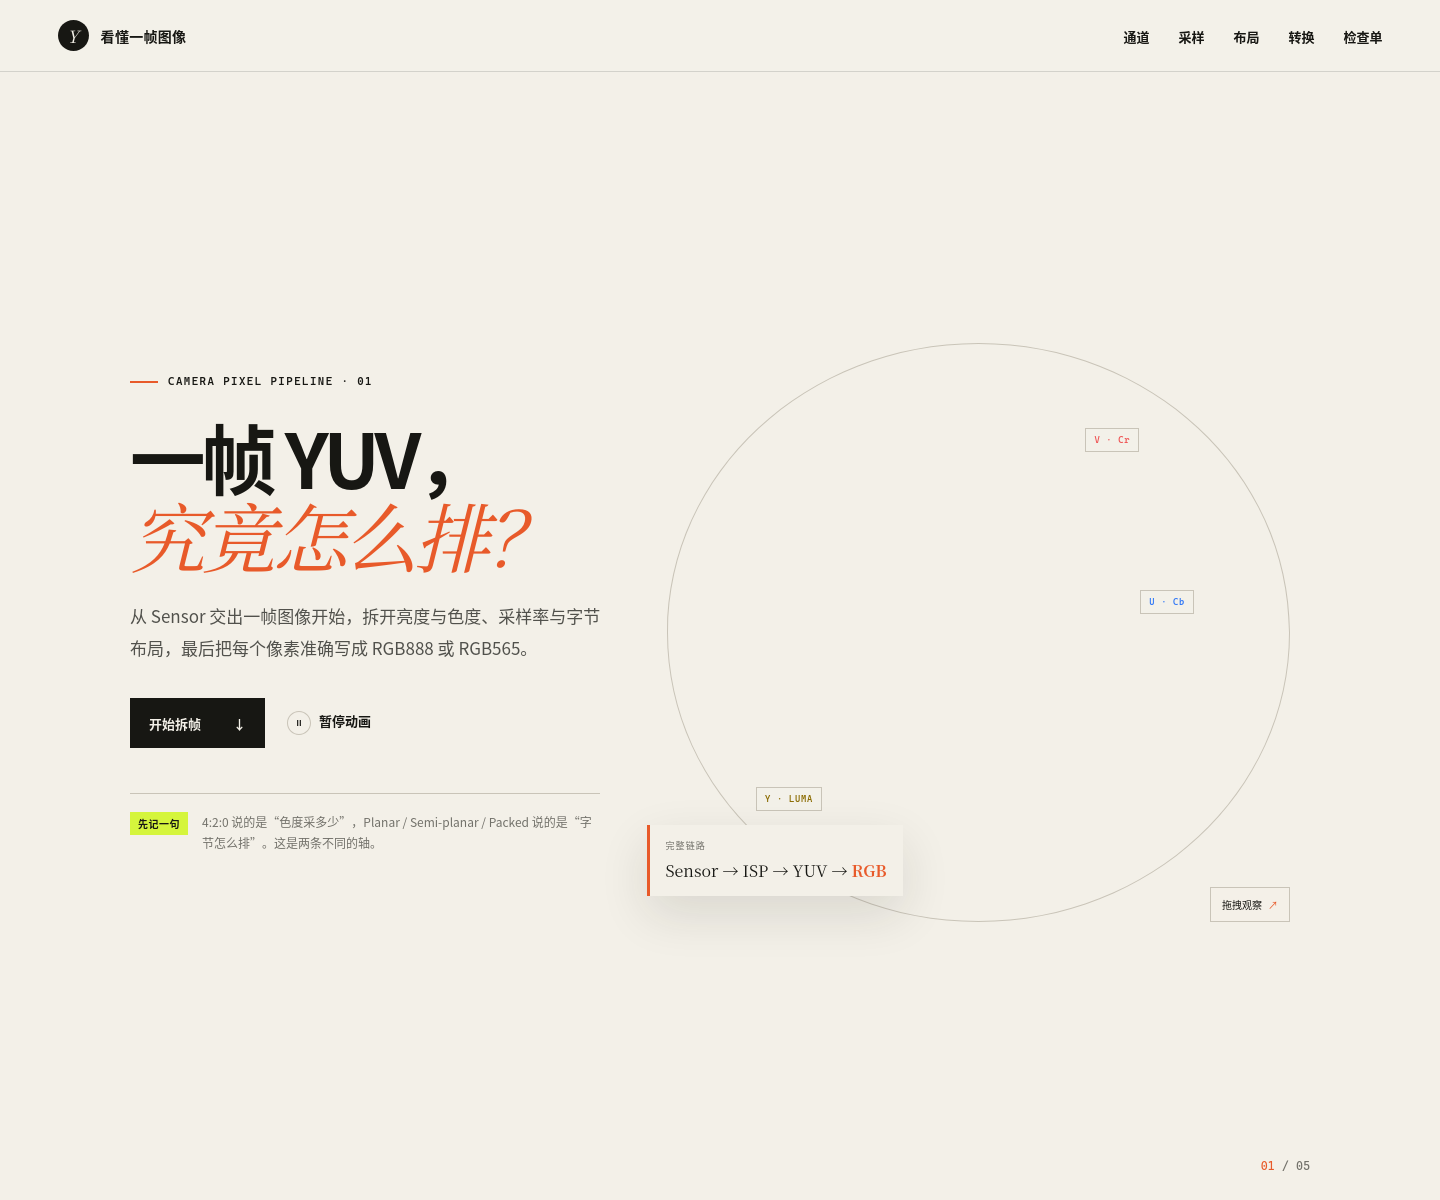
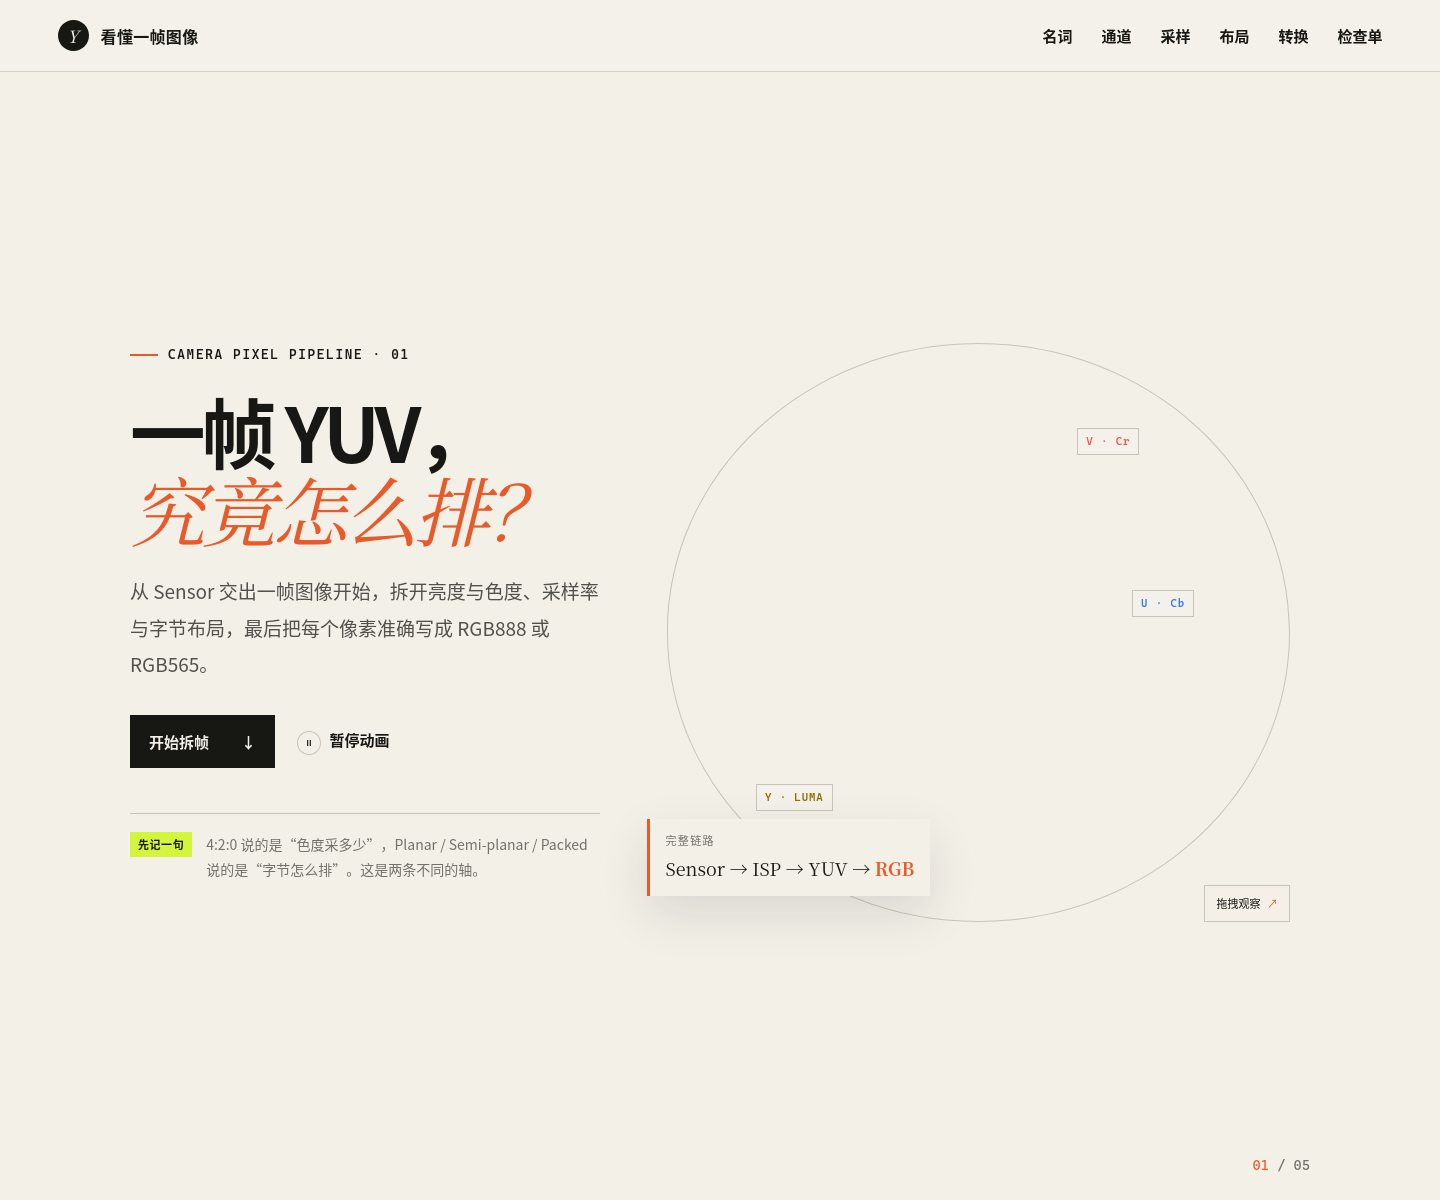
feat: add YUV glossary and improve typography

diff --git a/src/style.css b/src/style.css
@@ -93,6 +93,49 @@ h1 em, h2 em { color: var(--orange); font-family: var(--serif); font-weight: 400
 .concept-strip b { color: var(--paper); font-size: 13px; }
 .concept-strip i { color: #62625c; font-style: normal; }
 
+.glossary { padding: 118px 0 126px; }
+.glossary-heading { display: grid; grid-template-columns: 1.2fr .8fr; align-items: end; column-gap: 9%; margin-bottom: 54px; }
+.glossary-heading .eyebrow { grid-column: 1 / -1; margin-bottom: 22px; }
+.glossary-heading h2 { font-size: clamp(38px, 4.7vw, 60px); }
+.glossary-heading > p { margin: 0 0 5px; color: var(--muted); font-size: 17px; line-height: 1.9; }
+.term-grid { display: grid; grid-template-columns: repeat(3, 1fr); gap: 14px; }
+.term-card { min-width: 0; padding: 30px 28px; border: 1px solid var(--line); background: var(--paper-2); }
+.chroma-card { grid-column: 1 / -1; display: grid; grid-template-columns: 1.03fr .97fr; column-gap: 8%; }
+.chroma-card .term-top, .chroma-card h3 { grid-column: 1 / -1; }
+.term-top { display: flex; align-items: center; justify-content: space-between; padding-bottom: 17px; border-bottom: 1px solid var(--line); }
+.term-top span { color: var(--orange); font: 600 12px var(--mono); letter-spacing: .08em; }
+.term-top b { color: var(--muted); font: 500 12px var(--mono); }
+.term-card h3 { margin: 23px 0 14px; font-size: 27px; }
+.term-card h3 small { margin-left: 7px; color: var(--muted); font: 500 13px var(--mono); }
+.term-card > p { margin-bottom: 23px; color: var(--muted); font-size: 15px; line-height: 1.85; }
+.term-card > p strong { color: var(--ink); }
+.chroma-equation { display: grid; grid-template-columns: 1fr auto 1fr auto 1fr; align-items: stretch; gap: 9px; }
+.chroma-equation > div { padding: 18px 12px; display: flex; flex-direction: column; align-items: center; gap: 9px; border: 1px solid var(--line); background: var(--paper); text-align: center; }
+.chroma-equation > b { align-self: center; color: var(--orange); font: 400 22px var(--serif); }
+.chroma-equation i { width: 42px; height: 42px; display: grid; place-items: center; border-radius: 50%; color: var(--ink); background: var(--yellow); font: normal 700 13px var(--mono); }
+.chroma-equation .term-u { color: white; background: var(--blue); }
+.chroma-equation .term-v { color: white; background: var(--red); }
+.chroma-equation span { font-size: 13px; }
+.term-note { padding: 20px 22px; border-left: 3px solid var(--orange); background: var(--paper); }
+.chroma-card .term-note { grid-column: 1 / -1; }
+.term-note b { display: block; margin-bottom: 9px; font-size: 15px; }
+.term-note span { color: var(--muted); font-size: 14px; line-height: 1.8; }
+.mini-memory { margin: 25px 0 17px; display: grid; gap: 6px; }
+.mini-memory > div { min-width: 0; display: flex; }
+.mini-memory i { flex: 1 1 0; min-width: 0; height: 40px; display: grid; place-items: center; border-right: 1px solid rgba(23,23,19,.2); color: var(--ink); background: var(--yellow); font: normal 650 11px var(--mono); }
+.mini-memory i:last-child { border-right: 0; }
+.planar-memory > div:nth-child(2) i { color: white; background: var(--blue); }
+.planar-memory > div:nth-child(3) i { color: white; background: var(--red); }
+.semi-memory > div:nth-child(2) i:nth-child(odd) { color: white; background: var(--blue); }
+.semi-memory > div:nth-child(2) i:nth-child(even) { color: white; background: var(--red); }
+.packed-memory i:nth-child(2), .packed-memory i:nth-child(6) { color: white; background: var(--blue); }
+.packed-memory i:nth-child(4), .packed-memory i:nth-child(8) { color: white; background: var(--red); }
+.term-example { display: block; color: var(--muted); font: 500 11px/1.7 var(--mono); }
+.glossary-rule { margin-top: 22px; padding: 23px 27px; display: grid; grid-template-columns: 130px 1fr; align-items: center; gap: 22px; color: var(--paper); background: var(--ink); }
+.glossary-rule > span { color: var(--lime); font: 600 12px var(--mono); letter-spacing: .08em; }
+.glossary-rule p { margin: 0; color: #b7b6ae; font-size: 15px; line-height: 1.8; }
+.glossary-rule b { color: var(--paper); }
+
 .lesson { padding: 126px 0; }
 .section-heading { margin-bottom: 66px; }
 .heading-row { display: grid; grid-template-columns: 1.25fr .75fr; align-items: end; gap: 9%; margin-top: 22px; }
@@ -322,6 +365,69 @@ pre { margin: 0; padding: 30px 34px 37px; overflow-x: auto; color: #e4e1d8; font
 .back-top:hover { color: var(--paper); background: var(--orange); border-color: var(--orange); }
 footer { width: min(1180px, 92vw); margin: 0 auto; padding: 28px 0; display: flex; justify-content: space-between; color: var(--muted); font: 500 9px var(--mono); letter-spacing: .07em; }
 
+/* Readability pass: keep technical labels comfortably legible on dense diagrams. */
+.brand { font-size: 16px; }
+.nav { font-size: 15px; }
+.eyebrow { font-size: 13px; }
+.hero-lead { font-size: 19px; }
+.primary-btn, .text-btn { font-size: 15px; }
+.hero-note p { font-size: 14px; }
+.hero-note > span, .eq-label, .plane-label, .drag-hint { font-size: 11px; }
+.equation-float { font-size: 18px; }
+.chapter-index { font-size: 14px; }
+.concept-strip span { font-size: 13px; }
+.concept-strip p { font-size: 13px; }
+.concept-strip b { font-size: 15px; }
+.heading-row > p { font-size: 17px; }
+.canvas-title, .plane-head b, .pixel-readout p { font-size: 12px; }
+.plane-head small { font-size: 10px; }
+.step-tag { font-size: 11px; }
+.readout-row { font-size: 13px; }
+.readout-row b { font-size: 16px; }
+.formula-step > span, .formula-step p { font-size: 14px; }
+.big-math { font-size: 23px; }
+.sample-switch button { font-size: 13px; }
+.sampling-stat small, .legend { font-size: 11px; }
+.sampling-copy > p { font-size: 16px; }
+.sampling-layer-labels span, .sampling-cards span, .sampling-cards p { font-size: 11px; }
+.sampling-cards b { font-size: 16px; }
+.map-root span, .map-axis-title span, .format-class { font-size: 11px; }
+.map-root b { font-size: 17px; }
+.map-root small, .layout-branches span { font-size: 10px; }
+.map-axis-title b { font-size: 15px; }
+.map-nodes span { font-size: 13px; }
+.layout-branches b { font-size: 12px; }
+.format-tabs button { font-size: 13px; }
+.memory-topline, .memory-row > span { font-size: 10px; }
+.byte-cell { font-size: 13px; }
+.byte-cell small { font-size: 9px; }
+.address-line, .memory-legend { font-size: 10px; }
+.format-info > p { font-size: 15px; }
+.format-info dl > div { font-size: 12px; }
+.layout-summary span { font-size: 11px; }
+.layout-summary h3 { font-size: 18px; }
+.layout-summary p { font-size: 14px; }
+.lab-top, .control-switches label { font-size: 11px; }
+.control-switches select, .range-label { font-size: 13px; }
+.range-label output { font-size: 15px; }
+.matrix-note b { font-size: 12px; }
+.matrix-note code, .matrix-note p { font-size: 11px; }
+.rgb-numbers > div { font-size: 12px; }
+.output-compare article > span, .output-compare article > small { font-size: 10px; }
+.bit-row i { font-size: 9px; }
+.equation-path span, .equation-path p { font-size: 11px; }
+.equation-path b { font-size: 14px; }
+.code-top, .code-top button { font-size: 11px; }
+pre { font-size: 14px; }
+.code-notes ul, .check-grid p { font-size: 14px; }
+.check-grid span { font-size: 11px; }
+.check-grid h3 { font-size: 20px; }
+.check-grid b { font-size: 12px; }
+.debug-flow span { font-size: 10px; }
+.debug-flow b { font-size: 13px; }
+.closing p { font-size: 16px; }
+footer { font-size: 11px; }
+
 .reveal { opacity: 1; transform: translateY(0); transition: opacity .7s ease, transform .7s ease; }
 .reveal.visible { opacity: 1; transform: translateY(0); }
 
@@ -333,6 +439,10 @@ footer { width: min(1180px, 92vw); margin: 0 auto; padding: 28px 0; display: fle
   .concept-strip i { display: none; }
   .heading-row, .sampling-grid { grid-template-columns: 1fr; gap: 34px; }
   .heading-row > p { max-width: 650px; }
+  .glossary-heading { grid-template-columns: 1fr; gap: 24px; }
+  .glossary-heading .eyebrow { grid-column: 1; }
+  .chroma-card { grid-template-columns: 1fr; }
+  .chroma-equation { margin-bottom: 18px; }
   .channel-lab { grid-template-columns: 1.3fr .7fr; }
   .pixel-readout { grid-column: 1 / -1; display: grid; grid-template-columns: auto 90px repeat(3, 1fr); align-items: center; gap: 15px; padding: 22px; }
   .pixel-readout .sample-color { margin: 0; height: 55px; }
@@ -351,10 +461,19 @@ footer { width: min(1180px, 92vw); margin: 0 auto; padding: 28px 0; display: fle
   .brand span:last-child { display: none; }
   .hero { min-height: auto; padding-top: 104px; }
   .hero-visual { height: 430px; margin-top: 15px; }
-  .hero-lead { font-size: 15px; }
+  .hero-lead { font-size: 17px; }
   .hero-note, .chapter-index { display: none; }
   .lesson, .dark-section { padding: 90px 0; }
   .section-heading { margin-bottom: 44px; }
+  .glossary { padding: 82px 0 90px; }
+  .glossary-heading { margin-bottom: 36px; }
+  .term-grid { grid-template-columns: 1fr; }
+  .chroma-card { grid-column: 1; }
+  .term-card { padding: 25px 21px; }
+  .term-card h3 small { display: block; margin: 7px 0 0; }
+  .chroma-equation { grid-template-columns: 1fr; }
+  .chroma-equation > b { height: 18px; }
+  .glossary-rule { grid-template-columns: 1fr; gap: 9px; }
   .channel-lab { grid-template-columns: 1fr; min-height: auto; }
   .channel-main { min-height: 380px; border-right: 0; border-bottom: 1px solid var(--line); }
   .channel-planes { min-height: 420px; }
@@ -389,7 +508,7 @@ footer { width: min(1180px, 92vw); margin: 0 auto; padding: 28px 0; display: fle
   .equation-path > i { display: none; }
   .code-lab { grid-template-columns: 1fr; }
   .code-side { border-right: 0; border-bottom: 1px solid #42433b; }
-  pre { padding: 26px 20px; font-size: 10px; }
+  pre { padding: 26px 20px; font-size: 12px; }
   .check-grid { grid-template-columns: 1fr; }
   .check-grid article { min-height: 220px; }
   .debug-flow { grid-template-columns: 1fr; }

diff --git a/src/main.js b/src/main.js
@@ -11,6 +11,7 @@ app.innerHTML = `
       <span>看懂一帧图像</span>
     </a>
     <nav class="nav" aria-label="章节导航">
+      <a href="#glossary">名词</a>
       <a href="#channels">通道</a>
       <a href="#sampling">采样</a>
       <a href="#layouts">布局</a>
@@ -56,6 +57,68 @@ app.innerHTML = `
       <div><span>02</span><p><b>Chroma sampling</b><br>决定色度分辨率</p></div><i>→</i>
       <div><span>03</span><p><b>Memory layout</b><br>决定字节地址</p></div><i>→</i>
       <div><span>04</span><p><b>Matrix + pack</b><br>还原并压入 RGB</p></div>
+    </section>
+
+    <section class="glossary section-shell" id="glossary">
+      <div class="glossary-heading reveal">
+        <div class="eyebrow"><span></span> BEFORE WE START · GLOSSARY</div>
+        <h2>先读懂四个词，<br><em>再去看 bytes。</em></h2>
+        <p>Chroma 描述“存什么颜色信息”；Planar、Semi-planar 与 Packed 描述“这些信息在内存里怎么排”。</p>
+      </div>
+
+      <div class="term-grid reveal">
+        <article class="term-card chroma-card">
+          <div class="term-top"><span>00 · SIGNAL</span><b>颜色信息</b></div>
+          <h3>Chroma <small>/ˈkroʊmə/ · 色度</small></h3>
+          <p>在数字 YUV 中，Chroma 通常指 <strong>U/Cb 与 V/Cr 两路色差信号</strong>。它们告诉系统颜色相对亮度偏蓝多少、偏红多少，而明暗细节主要由 Y 保存。</p>
+          <div class="chroma-equation">
+            <div><i class="term-y">Y</i><span>亮度 / 细节</span></div>
+            <b>+</b>
+            <div><i class="term-u">Cb</i><span>蓝色色差</span></div>
+            <b>+</b>
+            <div><i class="term-v">Cr</i><span>红色色差</span></div>
+          </div>
+          <div class="term-note"><b>为什么能少采？</b><span>人眼对 Chroma 的空间细节不如对亮度敏感，所以 4:2:2、4:2:0 会让多个 Y 共享色度样本。8-bit 数据中，U/V≈128 通常表示中性色差。</span></div>
+        </article>
+
+        <article class="term-card">
+          <div class="term-top"><span>01 · LAYOUT</span><b>3 PLANES</b></div>
+          <h3>Planar <small>平面式</small></h3>
+          <p>Y、U、V 各占一块独立且连续的内存区域。处理某个通道很直接，但必须分别维护 plane 地址与 stride。</p>
+          <div class="mini-memory planar-memory" aria-label="Planar 内存示意">
+            <div><i>Y</i><i>Y</i><i>Y</i><i>Y</i></div>
+            <div><i>U</i><i>U</i></div>
+            <div><i>V</i><i>V</i></div>
+          </div>
+          <span class="term-example">I420: Y → U → V　·　YV12: Y → V → U</span>
+        </article>
+
+        <article class="term-card">
+          <div class="term-top"><span>02 · LAYOUT</span><b>2 PLANES</b></div>
+          <h3>Semi-planar <small>半平面式</small></h3>
+          <p>Y 保持独立；U 与 V 合并到第二个 plane，并按样本交错。<strong>“Semi” 指组织方式，不表示分辨率减半。</strong></p>
+          <div class="mini-memory semi-memory" aria-label="Semi-planar 内存示意">
+            <div><i>Y</i><i>Y</i><i>Y</i><i>Y</i></div>
+            <div><i>U</i><i>V</i><i>U</i><i>V</i></div>
+          </div>
+          <span class="term-example">NV12: UV UV…　·　NV21: VU VU…</span>
+        </article>
+
+        <article class="term-card">
+          <div class="term-top"><span>03 · LAYOUT</span><b>1 PLANE</b></div>
+          <h3>Packed <small>打包式</small></h3>
+          <p>Y、U、V 全部混排在同一条 byte stream 中，通常按两个像素为一组读取。不能把某一路当作连续数组。</p>
+          <div class="mini-memory packed-memory" aria-label="Packed 内存示意">
+            <div><i>Y0</i><i>U0</i><i>Y1</i><i>V0</i><i>Y2</i><i>U1</i><i>Y3</i><i>V1</i></div>
+          </div>
+          <span class="term-example">YUYV: Y0 U0 Y1 V0　·　UYVY: U0 Y0 V0 Y1</span>
+        </article>
+      </div>
+
+      <div class="glossary-rule reveal">
+        <span>不要混淆</span>
+        <p><b>4:2:0 / 4:2:2</b> 决定 Chroma 采样数量；<b>Planar / Semi-planar / Packed</b> 决定样本的内存排列。</p>
+      </div>
     </section>
 
     <section class="lesson section-shell" id="channels">

diff --git a/README.md b/README.md
@@ -7,11 +7,12 @@
 ## 内容
 
 1. **Y / U / V 的职责**：理解亮度与色度为什么分开保存。
-2. **色度采样**：比较 4:4:4、4:2:2 与 4:2:0 的共享范围与带宽。
-3. **内存布局图谱**：交互对比 I420、YV12、NV12、NV21、YUYV、UYVY。
-4. **转换实验室**：切换 BT.601 / BT.709、Full / Limited Range，实时观察 RGB 数值。
-5. **输出打包**：拆解 RGB888 与 RGB565 的位宽、精度与字节序。
-6. **工程检查单**：覆盖 stride、pixel stride、crop、矩阵、范围与 UV 顺序。
+2. **名词解析**：图解 Chroma、Planar、Semi-planar 与 Packed 的准确含义。
+3. **色度采样**：比较 4:4:4、4:2:2 与 4:2:0 的共享范围与带宽。
+4. **内存布局图谱**：交互对比 I420、YV12、NV12、NV21、YUYV、UYVY。
+5. **转换实验室**：切换 BT.601 / BT.709、Full / Limited Range，实时观察 RGB 数值。
+6. **输出打包**：拆解 RGB888 与 RGB565 的位宽、精度与字节序。
+7. **工程检查单**：覆盖 stride、pixel stride、crop、矩阵、范围与 UV 顺序。
 
 ## 本地运行
 
